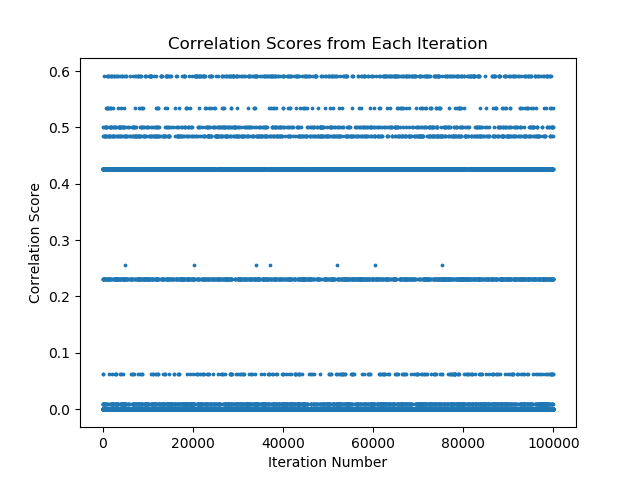
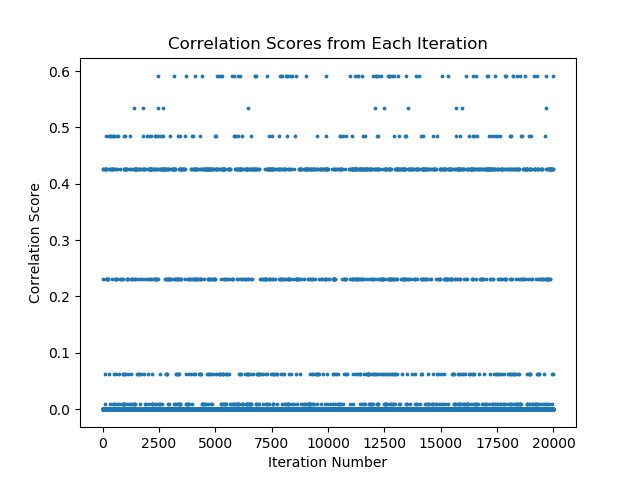
Added top 10

diff --git a/pcfg.py b/pcfg.py
@@ -11,9 +11,11 @@ import parsing
 from random import choice
 from numpy import exp
 import matplotlib.pyplot as plt
+import numpy as np
+import Queue
 
 PUNCTUATION_LIST = ['.',',','?','$','!',"'",'"',':',';','-', ')', '(', '``', '\'\'']
-NUM_ITERS = 20000
+NUM_ITERS = 100000
 CORRELATION_WEIGHT = .7
 LENGTH_WEIGHT = 1 - CORRELATION_WEIGHT
 OPTIMAL_SENTENCE_LENGTH = 10
@@ -344,6 +346,9 @@ def runRLAlgorithm(grammar, listings, keywords, expNum, outputFile) :
     bestSentence = ''
     bestOverTime = []
     OverTime = []
+    top10 = Queue.PriorityQueue(maxsize=10)
+    lowestScore = 0.0
+    sentences_seen = []
 
     for i in range(0, NUM_ITERS) :
         correlationScore = 0
@@ -381,7 +386,7 @@ def runRLAlgorithm(grammar, listings, keywords, expNum, outputFile) :
         def sigmoid(x):
             return 1.0 / (1 + exp(-x))
 
-        updatedScore = sigmoid(CORRELATION_WEIGHT*avgCorrelation - LENGTH_WEIGHT*((len(finalSentence) - OPTIMAL_SENTENCE_LENGTH) ** 2))
+        updatedScore = sigmoid(CORRELATION_WEIGHT*avgCorrelation - LENGTH_WEIGHT*(min((len(finalSentence) - OPTIMAL_SENTENCE_LENGTH)**2, 400)))
 
         grammarSet = [ ('-BEGIN-') for i in range(0, nplus - 1)]
         currentWord = tuple(grammarSet)
@@ -420,6 +425,23 @@ def runRLAlgorithm(grammar, listings, keywords, expNum, outputFile) :
             newList.append(word)
             key = tuple(newList)
         '''
+
+        if updatedScore > lowestScore:
+            to_add = final_sentence_as_string(finalSentence)
+            if to_add not in sentences_seen:
+                if top10.full():
+                    removed = top10.get()
+                    if (removed[0] > updatedScore):
+                        print "Removal unnecessary"
+                    getLowScore = top10.get()
+                    lowestScore = getLowScore[0]
+                    print "lowest score now ", lowestScore
+                    top10.put(getLowScore)
+                top10.put((updatedScore, to_add))
+                sentences_seen.append(to_add)
+            
+
+
         #for index, word in enumerate
         if updatedScore > bestScore :
             bestScore = updatedScore
@@ -431,7 +453,7 @@ def runRLAlgorithm(grammar, listings, keywords, expNum, outputFile) :
         bestOverTime.append(bestScore)
         OverTime.append(updatedScore)
 
-    outputFile.write('\n\n\n\n')
+    #outputFile.write('\n\n\n\n')
 
     if expNum == 0:
         plt.figure()
@@ -448,7 +470,7 @@ def runRLAlgorithm(grammar, listings, keywords, expNum, outputFile) :
         plt.ylabel("Correlation Score")
         plt.savefig('iterVSscore'+str(nplus-1)+'.png')
 
-    return numChanges, bestScore, bestSentence
+    return numChanges, bestScore, bestSentence, top10
 
 if __name__ == '__main__':
     #print grammarDict
@@ -468,14 +490,26 @@ if __name__ == '__main__':
 
     with open('output.txt', 'a') as outputFile:
         #Could also tweak num reviews to compare to
+        outputFile.write("\n\n\n\n")
+        outputFile.write("Using nplus="+str(nplus)+"\n")
 
-
+        np.seterr(all='raise')
         expNum = 20
         
-        numChanges, bestScore, bestSentence = runRLAlgorithm(grammar,
+        numChanges, bestScore, bestSentence, top10 = runRLAlgorithm(grammar,
             listings, keywords, expNum, outputFile)
+        while not top10.empty():
+            sent = top10.get()
+            print "Score of ", sent[0], " sentence is ", sent[1]
+            outputFile.write("Score: "+str(sent[0])+"\n")
+            outputFile.write(sent[1]+"\n")
         outputFile.write("Now testing with optimized parameters")
-        numChanges, bestScore, bestSentence = runRLAlgorithm(grammar,
+        numChanges, bestScore, bestSentence, top10 = runRLAlgorithm(grammar,
             listings, keywords, 0, outputFile)
+        while not top10.empty():
+            sent = top10.get()
+            print "Score of ", sent[0], " sentence is ", sent[1]
+            outputFile.write("Score: "+str(sent[0])+"\n")
+            outputFile.write(sent[1]+"\n")
         print(bestScore)
         print(bestSentence)
